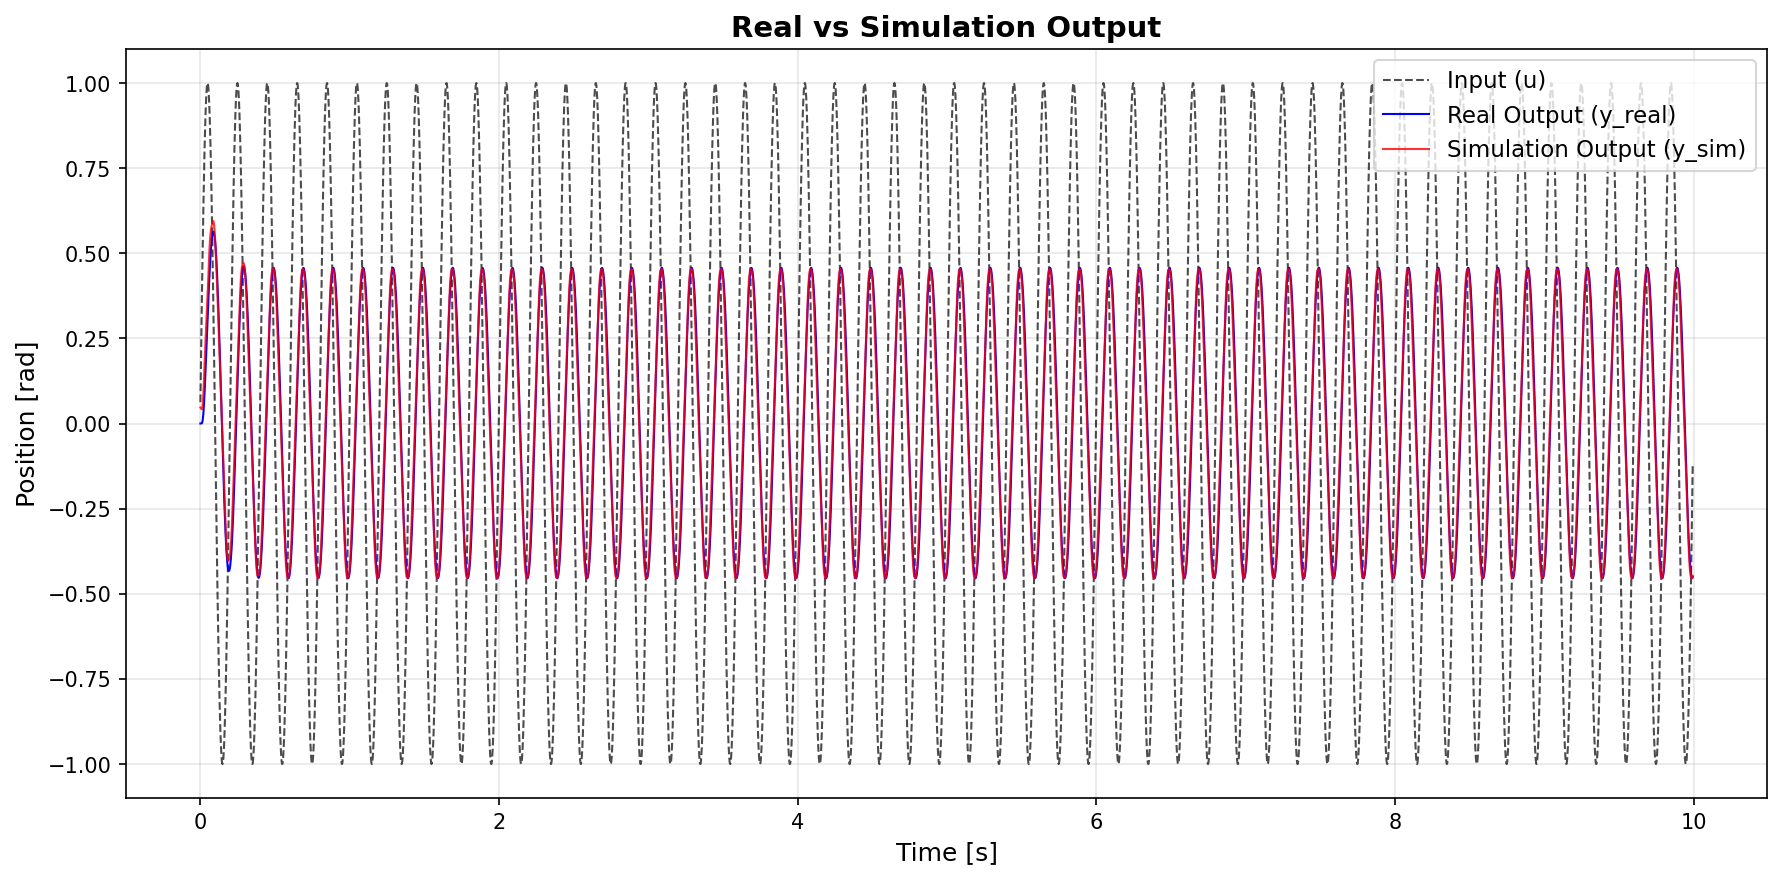
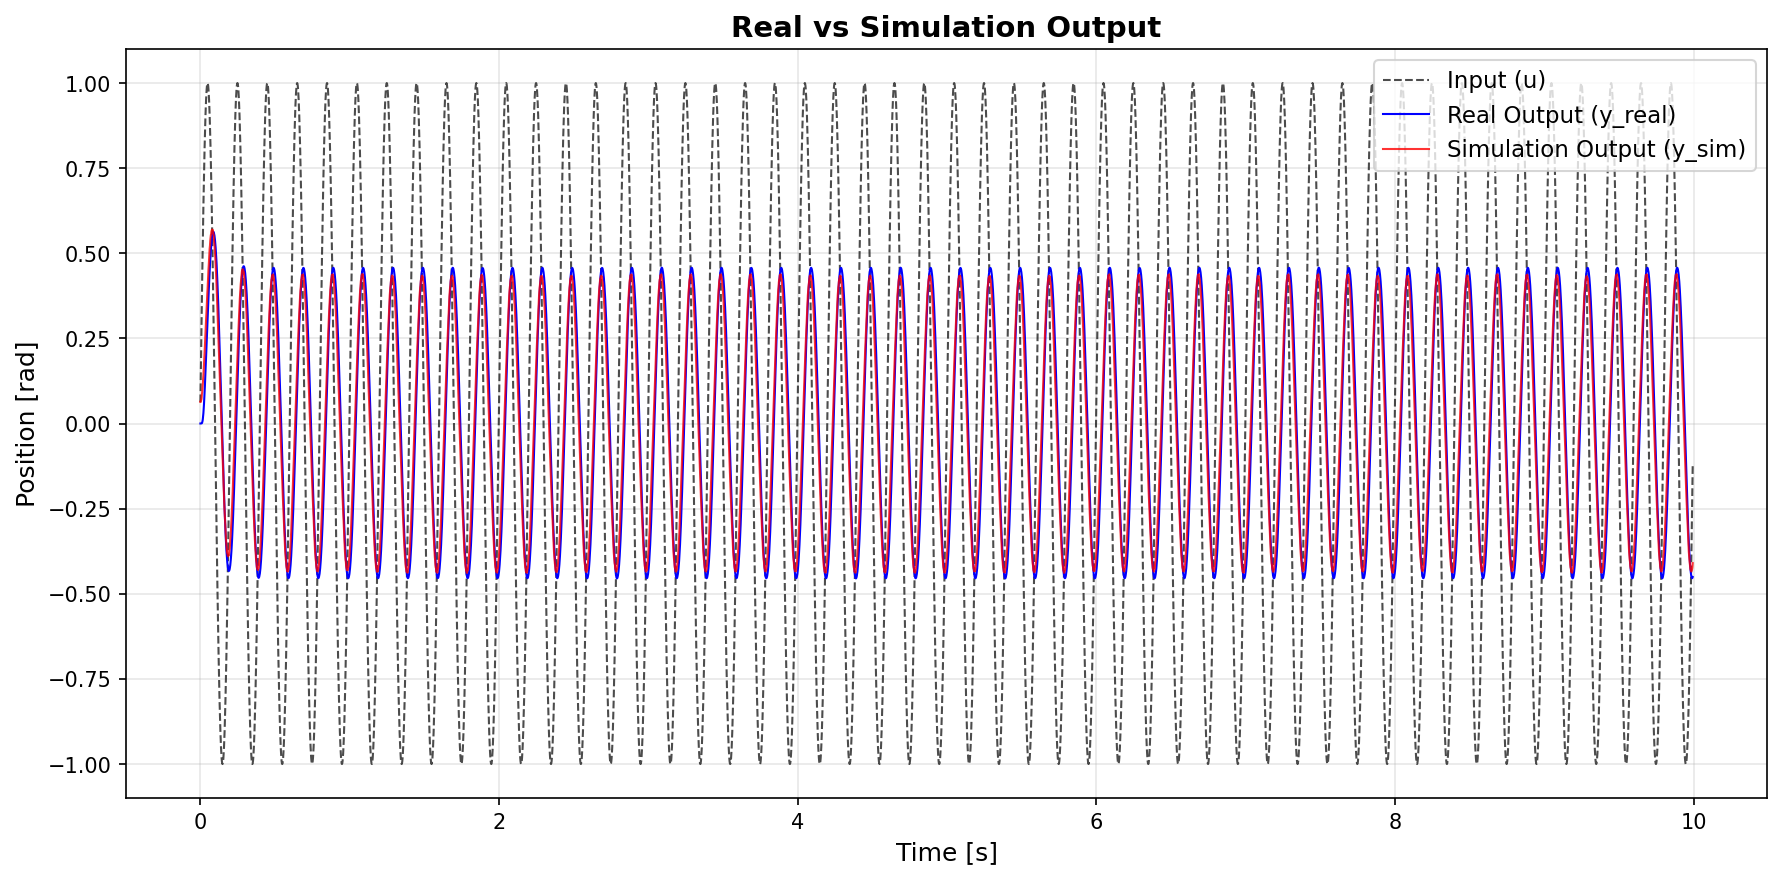
查看当前参数效果

Changed region(s): [[0.1235, 0.3068, 0.9568, 0.6443]]

diff --git a/scripts/compares/comp_collection.py b/scripts/compares/comp_collection.py
@@ -127,11 +127,11 @@ def main():
     joint_order = env_cfg.sim2real.joint_order
     joint_ids = torch.tensor([articulation.joint_names.index(name) for name in joint_order], device=env.unwrapped.device)
 
-    armature = torch.tensor([0.0055] * len(joint_ids), device=env.unwrapped.device).unsqueeze(0)
-    damping = torch.tensor([2.7120e-06] * len(joint_ids), device=env.unwrapped.device).unsqueeze(0)
-    friction = torch.tensor([0.4504] * len(joint_ids), device=env.unwrapped.device).unsqueeze(0)
-    bias = torch.tensor([-0.0467] * 1, device=env.unwrapped.device).unsqueeze(0)
-    time_lag = torch.tensor([[3.486177682876587]], dtype=torch.int, device=env.unwrapped.device)
+    armature = torch.tensor([0.0006] * len(joint_ids), device=env.unwrapped.device).unsqueeze(0)
+    damping = torch.tensor([0.0045] * len(joint_ids), device=env.unwrapped.device).unsqueeze(0)
+    friction = torch.tensor([0.0037] * len(joint_ids), device=env.unwrapped.device).unsqueeze(0)
+    bias = torch.tensor([-0.0633] * 1, device=env.unwrapped.device).unsqueeze(0)
+    tanh_scale = torch.tensor([[2.0415916442871094]], dtype=torch.int, device=env.unwrapped.device)
     env.reset()
 
     articulation.write_joint_armature_to_sim(armature, joint_ids=joint_ids, env_ids=torch.arange(len(armature)))
@@ -148,7 +148,7 @@ def main():
             drive_indices = all_idx[drive_indices]
         comparison_matrix = (joint_ids.unsqueeze(1) == drive_indices.unsqueeze(0))
         drive_joint_idx = torch.argmax(comparison_matrix.int(), dim=0)
-        articulation.actuators[drive_type].update_time_lags(time_lag)
+        articulation.actuators[drive_type].update_tanh_scale(tanh_scale[:, drive_joint_idx])
         articulation.actuators[drive_type].update_encoder_bias(bias[:, drive_joint_idx])
         articulation.actuators[drive_type].reset(torch.arange(env.unwrapped.num_envs))
 

diff --git a/scripts/compares/plot_comparison.py b/scripts/compares/plot_comparison.py
@@ -155,7 +155,7 @@ def select_from_menu(options, title="Please select:"):
                 return None
 
 
-def ():
+def interactive_mode():
     """交互式模式"""
     base_data_dir = Path(__file__).parent.parent.parent / "data" / "DM8006"
     
